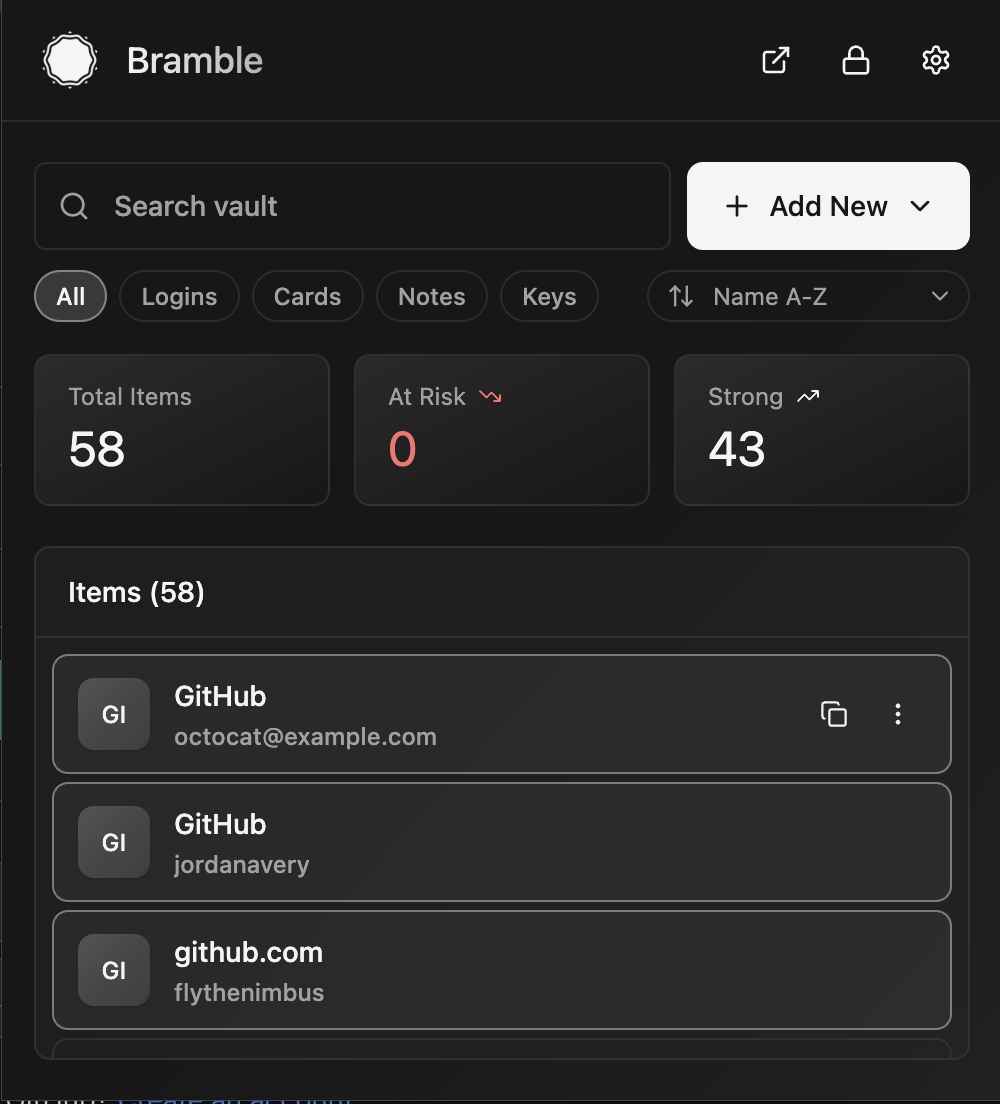
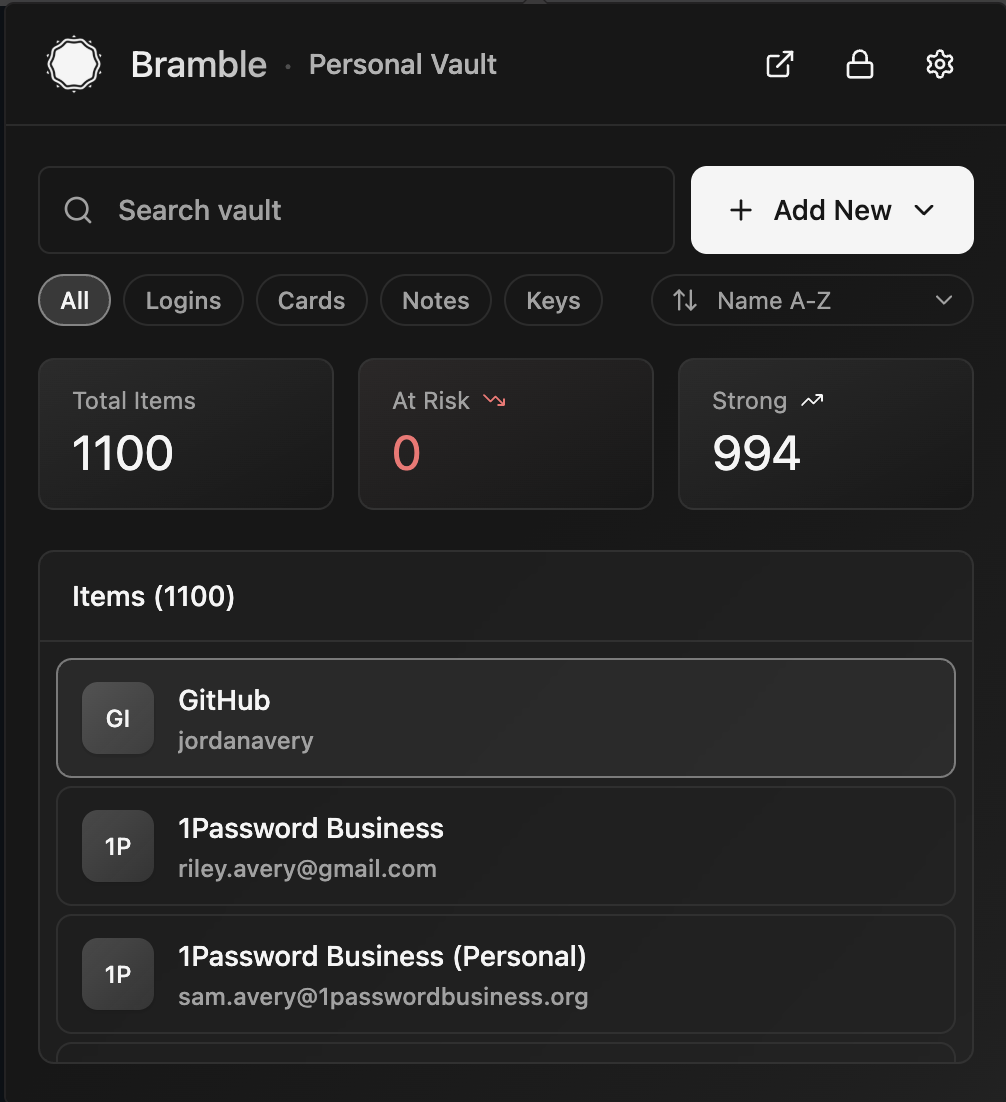
docs(screenshots): refresh the gallery, add six new shots
Replaces the aged shots (main, autofill, settings-general, settings-sync,
passkey-save, passkey-use) and drops two that no longer exist: login-save,
now split into the separate save-new and update-existing corner cards, and
settings-appearance, since every shot is dark and the theme control lives
in the General tab anyway.

New: multi-vault, login-new, login-update, settings-security,
settings-backup-pre, settings-backup-setup. Reorders both galleries into
one narrative: vault, pick a vault, autofill, save/update/edit a login,
passkeys, then settings. In ScreenshotGallery the LABELS map drives sort
order as well as captions, so an unlisted key would sort last and render
its filename as alt text; it has to track the directory.

Two README claims the new shots contradicted:

- Multiple vaults sat under "What's coming next" while multi-vault.png
  shows it working and SelectVaultRoute is registered in the shared
  router. Moved to Features, worded for the mobile caveat in
  docs/multiple-vaults.md (one active vault at a time).
- "Import from KeePass" predates 1Password, Bitwarden and Proton Pass,
  all of which have a module in core/src/import and appear in the
  settings-backup-pre shot.

diff --git a/README.md b/README.md
@@ -19,10 +19,12 @@ The same encrypted vault and the same Rust crypto core sit behind all three, and
 
 ## Screenshots
 
-| <img src="docs/screenshots/main.png" width="260" alt="Your vault"><br>**Your vault** | <img src="docs/screenshots/autofill.png" width="260" alt="Autofill on a page"><br>**Autofill on a page** | <img src="docs/screenshots/login-edit.png" width="260" alt="Editing an entry"><br>**Editing an entry** |
+| <img src="docs/screenshots/main.png" width="260" alt="Your vault"><br>**Your vault** | <img src="docs/screenshots/multi-vault.png" width="260" alt="Pick a vault"><br>**Pick a vault** | <img src="docs/screenshots/autofill.png" width="260" alt="Autofill on a page"><br>**Autofill on a page** |
 |:--:|:--:|:--:|
-| <img src="docs/screenshots/settings-general.png" width="260" alt="Settings"><br>**Settings** | <img src="docs/screenshots/settings-appearance.png" width="260" alt="Dark mode"><br>**Dark mode** | <img src="docs/screenshots/settings-sync.png" width="260" alt="Device sync"><br>**Device sync** |
-| <img src="docs/screenshots/login-save.png" width="260" alt="Save a login"><br>**Save a login** | <img src="docs/screenshots/passkey-save.png" width="260" alt="Create a passkey"><br>**Create a passkey** | <img src="docs/screenshots/passkey-use.png" width="260" alt="Sign in with a passkey"><br>**Sign in with a passkey** |
+| <img src="docs/screenshots/login-new.png" width="260" alt="Save a new login"><br>**Save a new login** | <img src="docs/screenshots/login-update.png" width="260" alt="Update an existing login"><br>**Update an existing login** | <img src="docs/screenshots/login-edit.png" width="260" alt="Editing an entry"><br>**Editing an entry** |
+| <img src="docs/screenshots/passkey-save.png" width="260" alt="Create a passkey"><br>**Create a passkey** | <img src="docs/screenshots/passkey-use.png" width="260" alt="Sign in with a passkey"><br>**Sign in with a passkey** | <img src="docs/screenshots/settings-general.png" width="260" alt="Settings"><br>**Settings** |
+| <img src="docs/screenshots/settings-security.png" width="260" alt="Unlock methods"><br>**Unlock methods** | <img src="docs/screenshots/settings-backup-pre.png" width="260" alt="Backups and import"><br>**Backups and import** | <img src="docs/screenshots/settings-backup-setup.png" width="260" alt="Scheduled cloud backups"><br>**Scheduled cloud backups** |
+| <img src="docs/screenshots/settings-sync.png" width="260" alt="Device sync"><br>**Device sync** |
 
 ## What it does
 
@@ -69,8 +71,9 @@ The iOS and Android apps are versioned and released independently of the extensi
 - **Peer-to-peer sync.** Mirror your vault directly between your own devices over an end-to-end encrypted connection. No cloud, no relay holding your data.
 - **Breach checking.** Optional Have I Been Pwned lookup using k-anonymity, so nothing about your password leaves your machine.
 - **Auto-lock.** Locks after idle time by default (configurable).
-- **Import from KeePass.** Bring your KDBX4 database over, key files included.
+- **Import from the others.** Bring entries over from 1Password, Bitwarden, Proton Pass, or KeePass, KDBX4 key files included.
 - **Multi-key vaults.** LUKS-style key slots, so your master password, a security key, biometrics, or your recovery code can each unlock the same vault.
+- **Multiple vaults.** Keep more than one vault side by side and pick which to unlock when you open Bramble. Handy for sharing a device, or walling off separate sets of logins behind their own master passwords.
 
 ## Why this beats the cloud managers
 
@@ -134,7 +137,6 @@ Parts of Bramble were written with AI assistance (Claude Opus), but every line w
 ## What's coming next
 
 - **Cloud backups on mobile.** The browser extension backs up to Dropbox, S3, and WebDAV on a schedule today; bringing those scheduled uploads to the iOS and Android apps is next (mobile can already restore from a backup file).
-- **Multiple vaults.** Keep more than one vault side by side and pick which to open when you launch the app. Handy for sharing a device between people, or walling off separate sets of logins behind their own master passwords.
 
 ## Contributing
 
